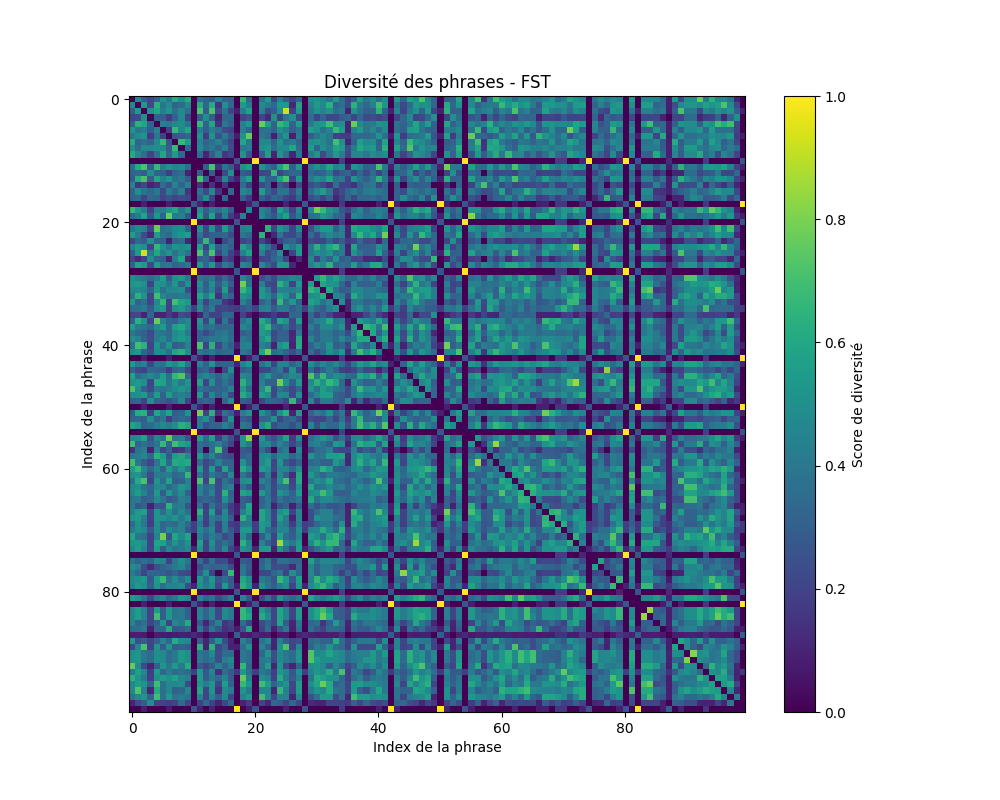
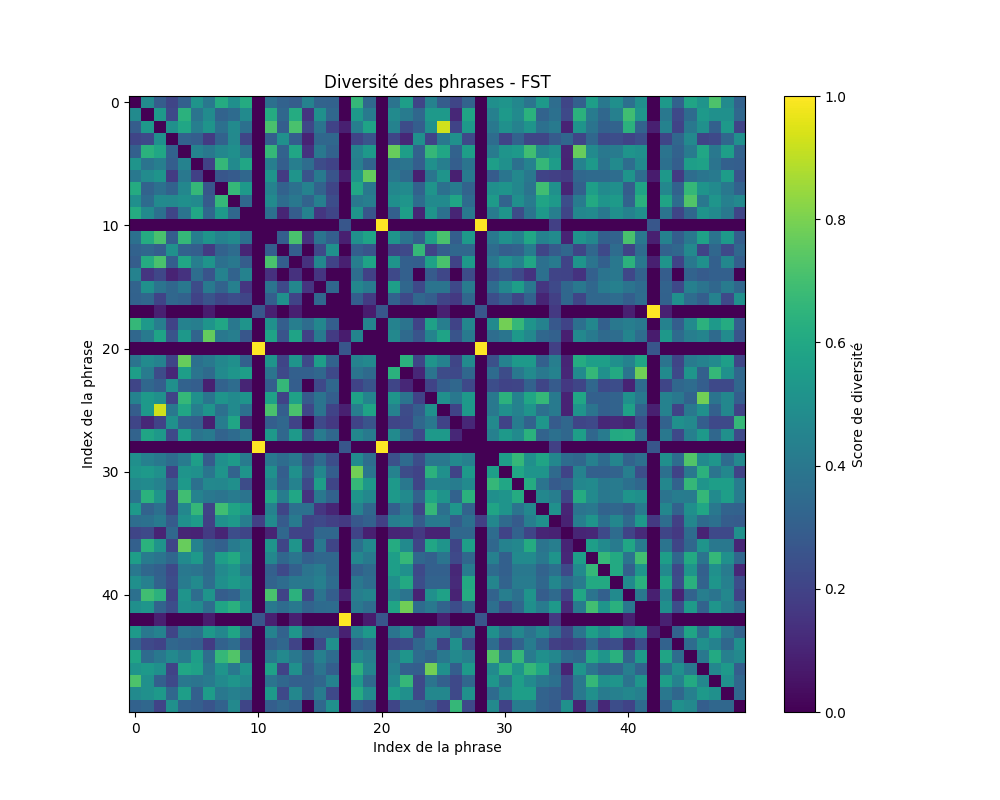
tentative clusturing non hiéarchique avec K-means

diff --git a/src/charts/clusturing.py b/src/charts/clusturing.py
@@ -1,0 +1,96 @@
+import pandas as pd
+import matplotlib.pyplot as plt
+import numpy as np
+import nltk
+from nltk.tokenize import word_tokenize
+from nltk.corpus import stopwords
+from nltk.stem import PorterStemmer
+from sklearn.feature_extraction.text import TfidfVectorizer
+from sklearn.cluster import KMeans
+from sklearn.decomposition import PCA
+
+# Download NLTK resources
+nltk.download('punkt')
+nltk.download('stopwords')
+
+# Read the CSV file
+X = pd.read_csv('data/captions.csv')
+
+# Preprocess each caption
+preprocessed_captions = []
+for sentence in X['caption']:
+    # Tokenization
+    words = word_tokenize(sentence)
+
+    # Lowercasing and removing non-alphabetic words
+    words = [word.lower() for word in words if word.isalpha()]
+
+    # Removing stopwords
+    stop_words = set(stopwords.words('english'))
+    words = [word for word in words if word not in stop_words]
+
+    # Stemming
+    stemmer = PorterStemmer()
+    words = [stemmer.stem(word) for word in words]
+
+    # Joining the preprocessed words back into a sentence
+    preprocessed_sentence = ' '.join(words)
+    preprocessed_captions.append(preprocessed_sentence)
+
+# Initialize TfidfVectorizer
+tfidf_vectorizer = TfidfVectorizer()
+
+# Fit and transform the preprocessed text
+tfidf_matrix = tfidf_vectorizer.fit_transform(preprocessed_captions)
+
+# Choose the number of clusters
+num_clusters = 4
+
+ia_colors = {
+    'bart_1': 'red',
+    'bart_2': 'blue',
+    't5_1': 'green',
+    't5_2': 'purple',
+    'FST': 'orange'
+}
+
+# Ajouter une colonne pour la couleur correspondant à chaque IA
+X['color'] = X['createur'].apply(lambda ia: ia_colors[ia])
+
+# Visualisation avec PCA
+pca = PCA(n_components=2)
+reduced_tfidf_matrix = pca.fit_transform(tfidf_matrix.toarray())
+
+# Effectuer le clustering K-means
+kmeans = KMeans(n_clusters=num_clusters, random_state=42)
+kmeans.fit(reduced_tfidf_matrix)
+
+# Créer une figure pour le scatter plot
+plt.figure(figsize=(10, 8))
+plt.title('K-Means Clustering of AI Generated Sentences')
+
+# Plot the points with specific colors for each IA and draw circles around clusters
+for ia, color in ia_colors.items():
+    # Select only the data for this IA
+    ia_data = reduced_tfidf_matrix[X['createur'] == ia]
+    ia_labels = kmeans.labels_[X['createur'] == ia]
+
+    # Plot the data points
+    plt.scatter(ia_data[:, 0], ia_data[:, 1], c=color, label=ia, s=3, alpha=0.5)
+
+# Draw circles around the clusters
+for i, center in enumerate(kmeans.cluster_centers_):
+    # Calculate the radius of the circle to be drawn
+    points_in_cluster = reduced_tfidf_matrix[kmeans.labels_ == i]
+    radius = np.max(np.sqrt(np.sum((points_in_cluster - center) ** 2, axis=1)))
+    circle = plt.Circle(center, radius, color='black', fill=False, linewidth=1.5, alpha=0.7)
+    plt.gca().add_patch(circle)
+
+# Adjust legend and axis labels
+plt.legend(loc='upper right')
+plt.xlabel('PCA Feature 1')
+plt.ylabel('PCA Feature 2')
+
+# Save the plot as a PNG image
+plt.savefig('plot/kmeans_clustering.png')
+plt.close()

diff --git a/src/charts/diversity.py b/src/charts/diversity.py
@@ -65,21 +65,21 @@ def plot_diversity_matrix(matrix, title, filename):
     plt.close()
 
 # Création de la matrice de diversité pour bart_1
-diversity_matrix_bart_1 = create_diversity_matrix(bart_1[:100]) 
+diversity_matrix_bart_1 = create_diversity_matrix(bart_1[:50]) 
 plot_diversity_matrix(diversity_matrix_bart_1, 'Diversité des phrases - Bart_1', 'plot/diversity_matrix_bart_1.png')
 
 # Création de la matrice de diversité pour bart_2
-diversity_matrix_bart_2 = create_diversity_matrix(sentences['bart_2'][:100])
+diversity_matrix_bart_2 = create_diversity_matrix(sentences['bart_2'][:50])
 plot_diversity_matrix(diversity_matrix_bart_2, 'Diversité des phrases - Bart_2', 'plot/diversity_matrix_bart_2.png')
 
 # Création de la matrice de diversité pour t5_1
-diversity_matrix_t5_1 = create_diversity_matrix(sentences['t5_1'][:100])
+diversity_matrix_t5_1 = create_diversity_matrix(sentences['t5_1'][:50])
 plot_diversity_matrix(diversity_matrix_t5_1, 'Diversité des phrases - T5_1', 'plot/diversity_matrix_t5_1.png')
 
 # Création de la matrice de diversité pour t5_2
-diversity_matrix_t5_2 = create_diversity_matrix(sentences['t5_2'][:100])
+diversity_matrix_t5_2 = create_diversity_matrix(sentences['t5_2'][:50])
 plot_diversity_matrix(diversity_matrix_t5_2, 'Diversité des phrases - T5_2', 'plot/diversity_matrix_t5_2.png')
 
 # Création de la matrice de diversité pour FST
-diversity_matrix_FST = create_diversity_matrix(sentences['FST'][:100])
+diversity_matrix_FST = create_diversity_matrix(sentences['FST'][:50])
 plot_diversity_matrix(diversity_matrix_FST, 'Diversité des phrases - FST', 'plot/diversity_matrix_FST.png')
